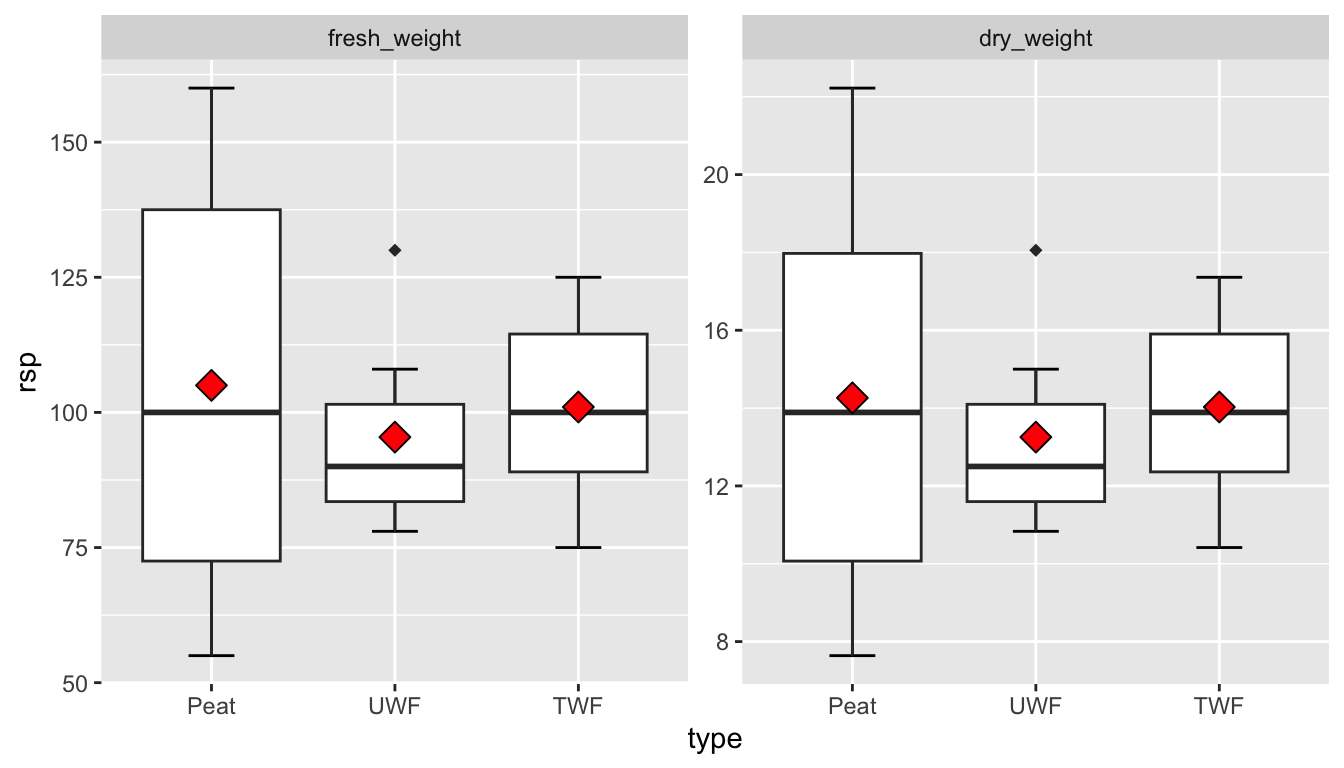
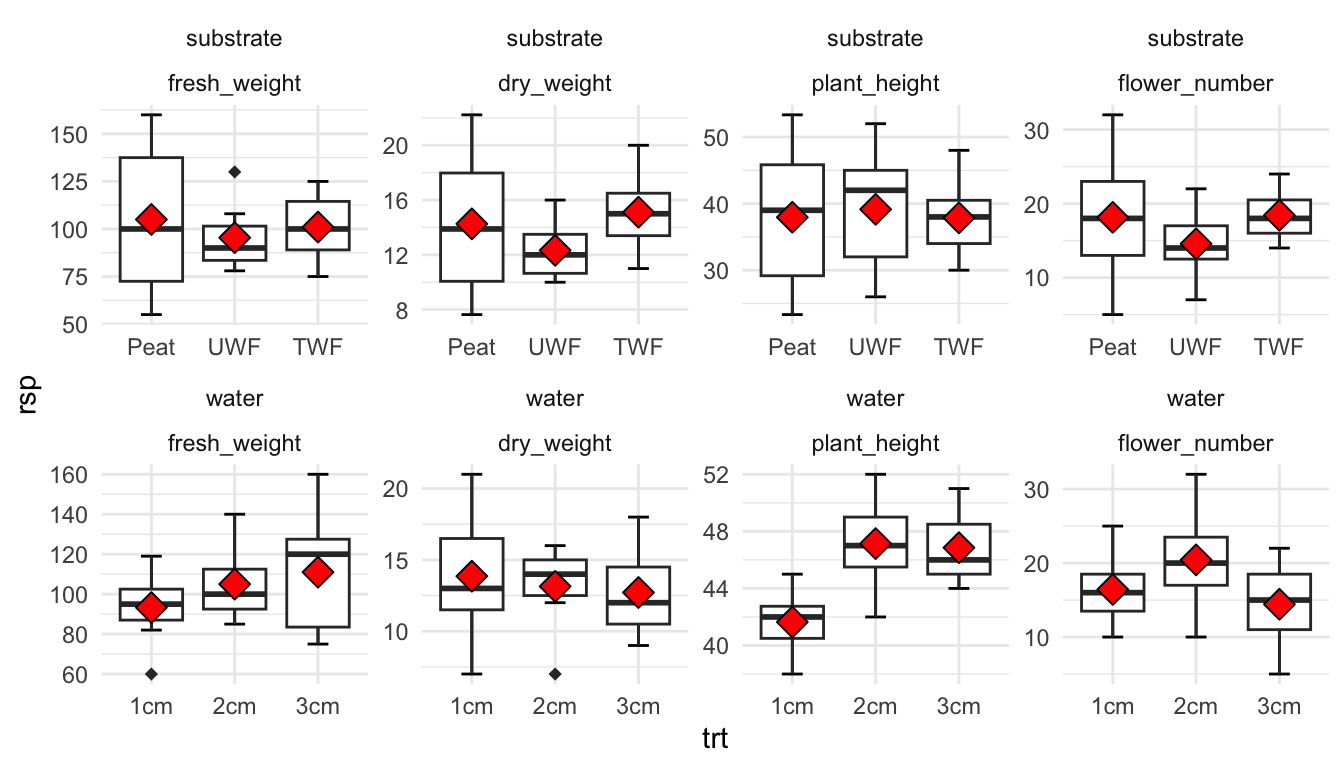
added ideas

diff --git a/docs/app-spielecke.html b/docs/app-spielecke.html
@@ -844,7 +844,7 @@ window.Quarto = {
 </header>
 
 
-<p><em>Letzte Änderung am 21. March 2024 um 12:29:05</em></p>
+<p><em>Letzte Änderung am 21. March 2024 um 20:06:57</em></p>
 <blockquote class="blockquote">
 <p><em>“Denn, um es endlich auf einmal herauszusagen, der Mensch spielt nur, wo er in voller Bedeutung des Worts Mensch ist, und er ist nur da ganz Mensch, wo er spielt.” — Friedrich Schiller</em></p>
 </blockquote>
@@ -878,25 +878,25 @@ Abbildung&nbsp;73.1— Ursprüngliche Abbildung, die nachgebaut werden soll. Zwe
 </figure>
 </div>
 <div class="cell">
-<div class="sourceCode cell-code" id="cb1"><pre class="sourceCode r code-with-copy"><code class="sourceCode r"><span id="cb1-1"><a href="#cb1-1" aria-hidden="true" tabindex="-1"></a>boxplot_mult_tbl <span class="ot">&lt;-</span> <span class="fu">read_excel</span>(<span class="st">"data/zerforschen_boxplot_mult.xlsx"</span>, <span class="at">sheet =</span> <span class="st">"substrate"</span>) <span class="sc">%&gt;%</span> </span>
-<span id="cb1-2"><a href="#cb1-2" aria-hidden="true" tabindex="-1"></a>  <span class="fu">mutate</span>(<span class="at">type =</span> <span class="fu">as_factor</span>(type))</span></code><button title="In die Zwischenablage kopieren" class="code-copy-button"><i class="bi"></i></button></pre></div>
+<div class="sourceCode cell-code" id="cb1"><pre class="sourceCode r code-with-copy"><code class="sourceCode r"><span id="cb1-1"><a href="#cb1-1" aria-hidden="true" tabindex="-1"></a>boxplot_mult_tbl <span class="ot">&lt;-</span> <span class="fu">read_excel</span>(<span class="st">"data/zerforschen_boxplot_mult.xlsx"</span>) <span class="sc">|&gt;</span> </span>
+<span id="cb1-2"><a href="#cb1-2" aria-hidden="true" tabindex="-1"></a>  <span class="fu">pivot_longer</span>(<span class="at">cols =</span> fresh_weight<span class="sc">:</span>flower_number,</span>
+<span id="cb1-3"><a href="#cb1-3" aria-hidden="true" tabindex="-1"></a>               <span class="at">values_to =</span> <span class="st">"rsp"</span>,</span>
+<span id="cb1-4"><a href="#cb1-4" aria-hidden="true" tabindex="-1"></a>               <span class="at">names_to =</span> <span class="st">"plant_measure"</span>) <span class="sc">|&gt;</span> </span>
+<span id="cb1-5"><a href="#cb1-5" aria-hidden="true" tabindex="-1"></a>    <span class="fu">mutate</span>(<span class="at">trt =</span> <span class="fu">as_factor</span>(trt),</span>
+<span id="cb1-6"><a href="#cb1-6" aria-hidden="true" tabindex="-1"></a>           <span class="at">plant_measure =</span> <span class="fu">as_factor</span>(plant_measure)) </span></code><button title="In die Zwischenablage kopieren" class="code-copy-button"><i class="bi"></i></button></pre></div>
 </div>
-<p>text</p>
+<div class="tabset-margin-container"></div><div class="panel-tabset">
+<ul class="nav nav-tabs" role="tablist"><li class="nav-item" role="presentation"><a class="nav-link active" id="tabset-1-1-tab" data-bs-toggle="tab" data-bs-target="#tabset-1-1" role="tab" aria-controls="tabset-1-1" aria-selected="true" aria-current="page">Mit <code>facet_wrap()</code></a></li><li class="nav-item" role="presentation"><a class="nav-link" id="tabset-1-2-tab" data-bs-toggle="tab" data-bs-target="#tabset-1-2" role="tab" aria-controls="tabset-1-2" aria-selected="false">Mit <code>{patchwork}</code></a></li></ul>
+<div class="tab-content">
+<div id="tabset-1-1" class="tab-pane active" role="tabpanel" aria-labelledby="tabset-1-1-tab">
 <div class="cell" data-layout-align="center">
-<div class="sourceCode cell-code" id="cb2"><pre class="sourceCode r code-with-copy"><code class="sourceCode r"><span id="cb2-1"><a href="#cb2-1" aria-hidden="true" tabindex="-1"></a>boxplot_mult_tbl <span class="ot">&lt;-</span> <span class="fu">read_excel</span>(<span class="st">"data/zerforschen_boxplot_mult.xlsx"</span>, <span class="at">sheet =</span> <span class="st">"substrate"</span>) <span class="sc">|&gt;</span> </span>
-<span id="cb2-2"><a href="#cb2-2" aria-hidden="true" tabindex="-1"></a>  <span class="fu">pivot_longer</span>(<span class="at">cols =</span> fresh_weight<span class="sc">:</span>dry_weight,</span>
-<span id="cb2-3"><a href="#cb2-3" aria-hidden="true" tabindex="-1"></a>               <span class="at">values_to =</span> <span class="st">"rsp"</span>,</span>
-<span id="cb2-4"><a href="#cb2-4" aria-hidden="true" tabindex="-1"></a>               <span class="at">names_to =</span> <span class="st">"plant_measure"</span>) <span class="sc">|&gt;</span> </span>
-<span id="cb2-5"><a href="#cb2-5" aria-hidden="true" tabindex="-1"></a>    <span class="fu">mutate</span>(<span class="at">type =</span> <span class="fu">as_factor</span>(type),</span>
-<span id="cb2-6"><a href="#cb2-6" aria-hidden="true" tabindex="-1"></a>           <span class="at">plant_measure =</span> <span class="fu">as_factor</span>(plant_measure)) </span>
-<span id="cb2-7"><a href="#cb2-7" aria-hidden="true" tabindex="-1"></a></span>
-<span id="cb2-8"><a href="#cb2-8" aria-hidden="true" tabindex="-1"></a>boxplot_mult_tbl <span class="sc">|&gt;</span> </span>
-<span id="cb2-9"><a href="#cb2-9" aria-hidden="true" tabindex="-1"></a>  <span class="fu">ggplot</span>(<span class="fu">aes</span>(type, rsp)) <span class="sc">+</span></span>
-<span id="cb2-10"><a href="#cb2-10" aria-hidden="true" tabindex="-1"></a>  <span class="fu">stat_boxplot</span>(<span class="at">geom =</span> <span class="st">"errorbar"</span>, <span class="at">width =</span> <span class="fl">0.25</span>) <span class="sc">+</span> </span>
-<span id="cb2-11"><a href="#cb2-11" aria-hidden="true" tabindex="-1"></a>  <span class="fu">geom_boxplot</span>(<span class="at">outlier.shape =</span> <span class="dv">18</span>, <span class="at">outlier.size =</span> <span class="dv">2</span>) <span class="sc">+</span></span>
-<span id="cb2-12"><a href="#cb2-12" aria-hidden="true" tabindex="-1"></a>  <span class="co">#scale_y_continuous(breaks = seq(60, 160, by = 20), limits = c(50, 160)) +</span></span>
-<span id="cb2-13"><a href="#cb2-13" aria-hidden="true" tabindex="-1"></a>  <span class="fu">stat_summary</span>(<span class="at">fun.y =</span> mean, <span class="at">geom =</span> <span class="st">"point"</span>, <span class="at">shape =</span> <span class="dv">23</span>, <span class="at">size =</span> <span class="dv">4</span>, <span class="at">fill =</span> <span class="st">"red"</span>) <span class="sc">+</span></span>
-<span id="cb2-14"><a href="#cb2-14" aria-hidden="true" tabindex="-1"></a>  <span class="fu">facet_wrap</span>(<span class="sc">~</span> plant_measure, <span class="at">nrow =</span> <span class="dv">1</span>, <span class="at">scales =</span> <span class="st">"free_y"</span>)</span></code><button title="In die Zwischenablage kopieren" class="code-copy-button"><i class="bi"></i></button></pre></div>
+<div class="sourceCode cell-code" id="cb2"><pre class="sourceCode r code-with-copy"><code class="sourceCode r"><span id="cb2-1"><a href="#cb2-1" aria-hidden="true" tabindex="-1"></a>boxplot_mult_tbl <span class="sc">|&gt;</span> </span>
+<span id="cb2-2"><a href="#cb2-2" aria-hidden="true" tabindex="-1"></a>  <span class="fu">ggplot</span>(<span class="fu">aes</span>(trt, rsp)) <span class="sc">+</span></span>
+<span id="cb2-3"><a href="#cb2-3" aria-hidden="true" tabindex="-1"></a>  <span class="fu">theme_minimal</span>() <span class="sc">+</span></span>
+<span id="cb2-4"><a href="#cb2-4" aria-hidden="true" tabindex="-1"></a>  <span class="fu">stat_boxplot</span>(<span class="at">geom =</span> <span class="st">"errorbar"</span>, <span class="at">width =</span> <span class="fl">0.25</span>) <span class="sc">+</span> </span>
+<span id="cb2-5"><a href="#cb2-5" aria-hidden="true" tabindex="-1"></a>  <span class="fu">geom_boxplot</span>(<span class="at">outlier.shape =</span> <span class="dv">18</span>, <span class="at">outlier.size =</span> <span class="dv">2</span>) <span class="sc">+</span></span>
+<span id="cb2-6"><a href="#cb2-6" aria-hidden="true" tabindex="-1"></a>  <span class="fu">stat_summary</span>(<span class="at">fun.y =</span> mean, <span class="at">geom =</span> <span class="st">"point"</span>, <span class="at">shape =</span> <span class="dv">23</span>, <span class="at">size =</span> <span class="dv">4</span>, <span class="at">fill =</span> <span class="st">"red"</span>) <span class="sc">+</span></span>
+<span id="cb2-7"><a href="#cb2-7" aria-hidden="true" tabindex="-1"></a>  <span class="fu">facet_wrap</span>(<span class="sc">~</span> type <span class="sc">*</span> plant_measure, <span class="at">nrow =</span> <span class="dv">2</span>, <span class="at">scales =</span> <span class="st">"free"</span>)</span></code><button title="In die Zwischenablage kopieren" class="code-copy-button"><i class="bi"></i></button></pre></div>
 <div class="cell-output-display">
 <div id="fig-zerforschen_boxplot_mult-1" class="quarto-figure quarto-figure-center quarto-float anchored" data-fig-align="center">
 <figure class="quarto-float quarto-float-fig figure">
@@ -904,9 +904,57 @@ Abbildung&nbsp;73.1— Ursprüngliche Abbildung, die nachgebaut werden soll. Zwe
 <a href="app-spielecke_files/figure-html/fig-zerforschen_boxplot_mult-1-1.png" class="lightbox" data-gallery="quarto-lightbox-gallery-3" data-glightbox="description: .lightbox-desc-3"><img src="app-spielecke_files/figure-html/fig-zerforschen_boxplot_mult-1-1.png" class="img-fluid quarto-figure quarto-figure-center figure-img" width="672"></a>
 </div>
 <figcaption class="quarto-float-caption-bottom quarto-float-caption quarto-float-fig" id="fig-zerforschen_boxplot_mult-1-caption-0ceaefa1-69ba-4598-a22c-09a6ac19f8ca">
-Abbildung&nbsp;73.2— Die
+Abbildung&nbsp;73.2— Nicht alle Ausreißer wurden von mir direkt nachgebaut. Das ist sehr viel Arbeit mit wenig Erkenntnisgewinn.
 </figcaption>
 </figure>
+</div>
+</div>
+</div>
+</div>
+<div id="tabset-1-2" class="tab-pane" role="tabpanel" aria-labelledby="tabset-1-2-tab">
+<p>Hier bauen wir uns erstmal ein Template für <code>ggplot()</code> und dann ändern wir nur die Werte für <code>scale_y_continuous()</code>.</p>
+<div class="cell">
+<div class="sourceCode cell-code" id="cb3"><pre class="sourceCode r code-with-copy"><code class="sourceCode r"><span id="cb3-1"><a href="#cb3-1" aria-hidden="true" tabindex="-1"></a>gg_template <span class="ot">&lt;-</span> <span class="fu">ggplot</span>() <span class="sc">+</span></span>
+<span id="cb3-2"><a href="#cb3-2" aria-hidden="true" tabindex="-1"></a>  <span class="fu">aes</span>(trt, rsp) <span class="sc">+</span></span>
+<span id="cb3-3"><a href="#cb3-3" aria-hidden="true" tabindex="-1"></a>  <span class="fu">theme_minimal</span>() <span class="sc">+</span></span>
+<span id="cb3-4"><a href="#cb3-4" aria-hidden="true" tabindex="-1"></a>  <span class="fu">stat_boxplot</span>(<span class="at">geom =</span> <span class="st">"errorbar"</span>, <span class="at">width =</span> <span class="fl">0.25</span>) <span class="sc">+</span> </span>
+<span id="cb3-5"><a href="#cb3-5" aria-hidden="true" tabindex="-1"></a>  <span class="fu">geom_boxplot</span>(<span class="at">outlier.shape =</span> <span class="dv">18</span>, <span class="at">outlier.size =</span> <span class="dv">2</span>) <span class="sc">+</span></span>
+<span id="cb3-6"><a href="#cb3-6" aria-hidden="true" tabindex="-1"></a>  <span class="fu">stat_summary</span>(<span class="at">fun.y =</span> mean, <span class="at">geom =</span> <span class="st">"point"</span>, <span class="at">shape =</span> <span class="dv">23</span>, <span class="at">size =</span> <span class="dv">4</span>, <span class="at">fill =</span> <span class="st">"red"</span>) <span class="sc">+</span></span>
+<span id="cb3-7"><a href="#cb3-7" aria-hidden="true" tabindex="-1"></a>  <span class="fu">labs</span>(<span class="at">x =</span> <span class="st">""</span>)</span></code><button title="In die Zwischenablage kopieren" class="code-copy-button"><i class="bi"></i></button></pre></div>
+</div>
+<div class="cell">
+<div class="sourceCode cell-code" id="cb4"><pre class="sourceCode r code-with-copy"><code class="sourceCode r"><span id="cb4-1"><a href="#cb4-1" aria-hidden="true" tabindex="-1"></a>p1 <span class="ot">&lt;-</span> gg_template <span class="sc">%+%</span></span>
+<span id="cb4-2"><a href="#cb4-2" aria-hidden="true" tabindex="-1"></a>  <span class="fu">filter</span>(boxplot_mult_tbl, type <span class="sc">==</span> <span class="st">"substrate"</span> <span class="sc">&amp;</span> plant_measure <span class="sc">==</span> <span class="st">"fresh_weight"</span>)</span>
+<span id="cb4-3"><a href="#cb4-3" aria-hidden="true" tabindex="-1"></a>p2 <span class="ot">&lt;-</span> gg_template <span class="sc">%+%</span></span>
+<span id="cb4-4"><a href="#cb4-4" aria-hidden="true" tabindex="-1"></a>  <span class="fu">filter</span>(boxplot_mult_tbl, type <span class="sc">==</span> <span class="st">"substrate"</span> <span class="sc">&amp;</span> plant_measure <span class="sc">==</span> <span class="st">"dry_weight"</span>)</span>
+<span id="cb4-5"><a href="#cb4-5" aria-hidden="true" tabindex="-1"></a>p3 <span class="ot">&lt;-</span> gg_template <span class="sc">%+%</span></span>
+<span id="cb4-6"><a href="#cb4-6" aria-hidden="true" tabindex="-1"></a>  <span class="fu">filter</span>(boxplot_mult_tbl, type <span class="sc">==</span> <span class="st">"substrate"</span> <span class="sc">&amp;</span> plant_measure <span class="sc">==</span> <span class="st">"plant_height"</span>)</span>
+<span id="cb4-7"><a href="#cb4-7" aria-hidden="true" tabindex="-1"></a>p4 <span class="ot">&lt;-</span> gg_template <span class="sc">%+%</span></span>
+<span id="cb4-8"><a href="#cb4-8" aria-hidden="true" tabindex="-1"></a>  <span class="fu">filter</span>(boxplot_mult_tbl, type <span class="sc">==</span> <span class="st">"substrate"</span> <span class="sc">&amp;</span> plant_measure <span class="sc">==</span> <span class="st">"flower_number"</span>)</span>
+<span id="cb4-9"><a href="#cb4-9" aria-hidden="true" tabindex="-1"></a>p5 <span class="ot">&lt;-</span> gg_template <span class="sc">%+%</span></span>
+<span id="cb4-10"><a href="#cb4-10" aria-hidden="true" tabindex="-1"></a>  <span class="fu">filter</span>(boxplot_mult_tbl, type <span class="sc">==</span> <span class="st">"water"</span> <span class="sc">&amp;</span> plant_measure <span class="sc">==</span> <span class="st">"fresh_weight"</span>)</span>
+<span id="cb4-11"><a href="#cb4-11" aria-hidden="true" tabindex="-1"></a>p6 <span class="ot">&lt;-</span> gg_template <span class="sc">%+%</span></span>
+<span id="cb4-12"><a href="#cb4-12" aria-hidden="true" tabindex="-1"></a>  <span class="fu">filter</span>(boxplot_mult_tbl, type <span class="sc">==</span> <span class="st">"water"</span> <span class="sc">&amp;</span> plant_measure <span class="sc">==</span> <span class="st">"fresh_weight"</span>)</span>
+<span id="cb4-13"><a href="#cb4-13" aria-hidden="true" tabindex="-1"></a>p7 <span class="ot">&lt;-</span> gg_template <span class="sc">%+%</span></span>
+<span id="cb4-14"><a href="#cb4-14" aria-hidden="true" tabindex="-1"></a>  <span class="fu">filter</span>(boxplot_mult_tbl, type <span class="sc">==</span> <span class="st">"water"</span> <span class="sc">&amp;</span> plant_measure <span class="sc">==</span> <span class="st">"fresh_weight"</span>)</span>
+<span id="cb4-15"><a href="#cb4-15" aria-hidden="true" tabindex="-1"></a>p8 <span class="ot">&lt;-</span> gg_template <span class="sc">%+%</span></span>
+<span id="cb4-16"><a href="#cb4-16" aria-hidden="true" tabindex="-1"></a>  <span class="fu">filter</span>(boxplot_mult_tbl, type <span class="sc">==</span> <span class="st">"water"</span> <span class="sc">&amp;</span> plant_measure <span class="sc">==</span> <span class="st">"fresh_weight"</span>)</span></code><button title="In die Zwischenablage kopieren" class="code-copy-button"><i class="bi"></i></button></pre></div>
+</div>
+<div class="cell">
+<div class="sourceCode cell-code" id="cb5"><pre class="sourceCode r code-with-copy"><code class="sourceCode r"><span id="cb5-1"><a href="#cb5-1" aria-hidden="true" tabindex="-1"></a>patch <span class="ot">&lt;-</span> (p1 <span class="sc">+</span> p2 <span class="sc">+</span> p3 <span class="sc">+</span> p4) <span class="sc">|</span></span>
+<span id="cb5-2"><a href="#cb5-2" aria-hidden="true" tabindex="-1"></a>  (p5 <span class="sc">+</span> p6 <span class="sc">+</span> p7 <span class="sc">+</span> p8) </span>
+<span id="cb5-3"><a href="#cb5-3" aria-hidden="true" tabindex="-1"></a>patch <span class="sc">+</span> <span class="fu">plot_annotation</span>(<span class="at">tag_levels =</span> <span class="st">'A'</span>,</span>
+<span id="cb5-4"><a href="#cb5-4" aria-hidden="true" tabindex="-1"></a>                        <span class="at">title =</span> <span class="st">'The surprising truth about mtcars'</span>,</span>
+<span id="cb5-5"><a href="#cb5-5" aria-hidden="true" tabindex="-1"></a>                        <span class="at">subtitle =</span> <span class="st">'These 3 plots will reveal yet-untold secrets about our beloved data-set'</span>,</span>
+<span id="cb5-6"><a href="#cb5-6" aria-hidden="true" tabindex="-1"></a>                        <span class="at">caption =</span> <span class="st">'Disclaimer: None of these plots are insightful'</span>)</span></code><button title="In die Zwischenablage kopieren" class="code-copy-button"><i class="bi"></i></button></pre></div>
+<div class="cell-output-display">
+<div>
+<figure class="figure">
+<p><a href="app-spielecke_files/figure-html/unnamed-chunk-6-1.png" class="lightbox" data-gallery="quarto-lightbox-gallery-4"><img src="app-spielecke_files/figure-html/unnamed-chunk-6-1.png" class="img-fluid figure-img" width="672"></a></p>
+</figure>
+</div>
+</div>
+</div>
 </div>
 </div>
 </div>
@@ -960,7 +1008,7 @@ Abbildung&nbsp;73.2— Die
 <div id="fig-eda-preface-r-01" class="quarto-figure quarto-figure-center quarto-float anchored" data-fig-align="center">
 <figure class="quarto-float quarto-float-fig figure">
 <div aria-describedby="fig-eda-preface-r-01-caption-0ceaefa1-69ba-4598-a22c-09a6ac19f8ca">
-<a href="app-spielecke_files/figure-html/fig-eda-preface-r-01-1.png" class="lightbox" data-gallery="quarto-lightbox-gallery-4" data-glightbox="description: .lightbox-desc-4"><img src="app-spielecke_files/figure-html/fig-eda-preface-r-01-1.png" class="img-fluid quarto-figure quarto-figure-center figure-img" width="672"></a>
+<a href="app-spielecke_files/figure-html/fig-eda-preface-r-01-1.png" class="lightbox" data-gallery="quarto-lightbox-gallery-5" data-glightbox="description: .lightbox-desc-5"><img src="app-spielecke_files/figure-html/fig-eda-preface-r-01-1.png" class="img-fluid quarto-figure quarto-figure-center figure-img" width="672"></a>
 </div>
 <figcaption class="quarto-float-caption-bottom quarto-float-caption quarto-float-fig" id="fig-eda-preface-r-01-caption-0ceaefa1-69ba-4598-a22c-09a6ac19f8ca">
 Abbildung&nbsp;73.3— Im Jahr 1995 waren 37 % der Informatiker Frauen. Heute sind es nur noch 24 %. Der Prozentsatz wird weiter sinken, wenn wir nichts tun. Wir wissen, dass der größte Rückgang von Mädchen in der Informatik im Alter zwischen 13 und 17 Jahren stattfindet. Quelle: <a href="https://girlswhocode.com/about-us">Girls who code</a>
@@ -1012,10 +1060,10 @@ Abbildung&nbsp;73.3— Im Jahr 1995 waren 37 % der Informatiker Frauen. Heute si
 <p>Mit dem <a href="https://cran.r-hub.io/web/packages/FAOSTAT/">R Paket <code>{FAOSTAT}</code></a> und der Vignette <a href="https://cran.r-hub.io/web/packages/FAOSTAT/vignettes/FAOSTAT.pdf">FAOSTAT: Download Data from the FAOSTAT Database</a></p>
 <p>Mit dem <a href="https://cran.r-project.org/web/packages/owidR/index.html">R Paket <code>{owidR}</code></a> haben wir auch eine Möglichkeit direkt auf die Datenbank von <a href="https://ourworldindata.org/">Our World in Data</a> zuzugreifen.</p>
 <div class="cell">
-<div class="sourceCode cell-code" id="cb3"><pre class="sourceCode r code-with-copy"><code class="sourceCode r"><span id="cb3-1"><a href="#cb3-1" aria-hidden="true" tabindex="-1"></a><span class="fu">library</span>(owidR)</span>
-<span id="cb3-2"><a href="#cb3-2" aria-hidden="true" tabindex="-1"></a>foo <span class="ot">&lt;-</span> <span class="fu">owid_search</span>(<span class="st">"annual"</span>) </span>
-<span id="cb3-3"><a href="#cb3-3" aria-hidden="true" tabindex="-1"></a><span class="fu">owid</span>(<span class="st">"annual-co2-emissions-by-region"</span>)</span>
-<span id="cb3-4"><a href="#cb3-4" aria-hidden="true" tabindex="-1"></a><span class="fu">owid</span>(foo[<span class="dv">3</span>])</span></code><button title="In die Zwischenablage kopieren" class="code-copy-button"><i class="bi"></i></button></pre></div>
+<div class="sourceCode cell-code" id="cb6"><pre class="sourceCode r code-with-copy"><code class="sourceCode r"><span id="cb6-1"><a href="#cb6-1" aria-hidden="true" tabindex="-1"></a><span class="fu">library</span>(owidR)</span>
+<span id="cb6-2"><a href="#cb6-2" aria-hidden="true" tabindex="-1"></a>foo <span class="ot">&lt;-</span> <span class="fu">owid_search</span>(<span class="st">"annual"</span>) </span>
+<span id="cb6-3"><a href="#cb6-3" aria-hidden="true" tabindex="-1"></a><span class="fu">owid</span>(<span class="st">"annual-co2-emissions-by-region"</span>)</span>
+<span id="cb6-4"><a href="#cb6-4" aria-hidden="true" tabindex="-1"></a><span class="fu">owid</span>(foo[<span class="dv">3</span>])</span></code><button title="In die Zwischenablage kopieren" class="code-copy-button"><i class="bi"></i></button></pre></div>
 </div>
 <p>Eine wunderbare Sammlung von Datensätzen aus dem Bereich der Agarwissenschaften liefert das R Paket <code>{agridat}</code>. Über die Hilfeseite <a href="https://cran.r-project.org/web/packages/agridat/index.html">agridat: Agricultural Datasets</a> findest du dann einmal einen gesamten Überblick und auch die Informationen über einige ausgewählte Datensätze aus Dutzenden von Datensätzen. Alle Datensätze der wichtigen Bücher zu dem experimentellen Designs sind dort eigentlich enthalten und einmal kuratiert.</p>
 <p>Hier noch der Link zu <a href="https://kwstat.github.io/agridat/reference/index.html">agridat - Datensätze mit Abbildungen in <code>{desplot}</code></a>. Du musst dann auf die jeweiligen Datensätze in der Liste klicken und dann kommst du zu dem Datensatz mit mehr Details sowie meistens auch einer Abbildung in <code>desplot</code>.</p>
@@ -1032,22 +1080,22 @@ Abbildung&nbsp;73.3— Im Jahr 1995 waren 37 % der Informatiker Frauen. Heute si
 <p>Wenn du mehr über <em>latent class analysis</em> erfahren möchtest, dann kann ich dir nur das <a href="https://www.john-uebersax.com/stat/faq.htm">LCA Frequently Asked Questions (FAQ)</a> empfehlen. Das FAQ ist sehr umfangreich und beschäftigt sich mit allen wichtigen Punkten. Wir wollen uns ja mit dem R Paket <code>poLCA</code> beschäftigen. Hier gibt es zwei Tutorien. Einmal gibt es das Tutorium <a href="https://statistics.ohlsen-web.de/latent-class-analysis-polca/">Example for a latent class analysis with the poLCA-package in R</a> und das Tutroium <a href="https://rpubs.com/eogawac/poLCA">Latent Class Analysis</a>. Und natürlich die Litertur von <span class="citation" data-cites="linzer2011polca">Linzer und Lewis (<a href="#ref-linzer2011polca" role="doc-biblioref">2011</a>)</span> mit der entsprechenden Veröffentlichung <a href="https://www.sscnet.ucla.edu/polisci/faculty/lewis/pdf/poLCA-JSS-final.pdf">poLCA: An R Package for Polytomous Variable Latent Class Analysis</a></p>
 <p>Grundsätzlich basiert die <em>latent class analysis</em> nicht auf Distanzen sondern versucht über eine Modellierung der Klassenzugehörigkeitswahrscheinlichkeit getrennte Gruppen zu bilden. Wir wollen also <span class="math inline">\(k\)</span> Klassen haben und im idealen Fall können wir durch unsere Variablen in dem Datensatz jeweils mit einer 100% Wahrscheinlichkeit einer der drei Klassen zuordnen. Was dann diese <span class="math inline">\(k\)</span> Klassen aussagen, müssen wir dann selber anhand der zugewiesenen Variablen aus unseren Daten interpretieren.</p>
 <div class="cell">
-<div class="sourceCode cell-code" id="cb4"><pre class="sourceCode r code-with-copy"><code class="sourceCode r"><span id="cb4-1"><a href="#cb4-1" aria-hidden="true" tabindex="-1"></a>pacman<span class="sc">::</span><span class="fu">p_load</span>(tidyverse, magrittr, janitor, conflicted)</span>
-<span id="cb4-2"><a href="#cb4-2" aria-hidden="true" tabindex="-1"></a></span>
-<span id="cb4-3"><a href="#cb4-3" aria-hidden="true" tabindex="-1"></a>animals_tbl <span class="ot">&lt;-</span> <span class="fu">read_excel</span>(<span class="st">"data/cluster_animal.xlsx"</span>, <span class="at">sheet =</span> <span class="dv">1</span>) <span class="sc">%&gt;%</span> </span>
-<span id="cb4-4"><a href="#cb4-4" aria-hidden="true" tabindex="-1"></a>  <span class="fu">clean_names</span>() </span></code><button title="In die Zwischenablage kopieren" class="code-copy-button"><i class="bi"></i></button></pre></div>
+<div class="sourceCode cell-code" id="cb7"><pre class="sourceCode r code-with-copy"><code class="sourceCode r"><span id="cb7-1"><a href="#cb7-1" aria-hidden="true" tabindex="-1"></a>pacman<span class="sc">::</span><span class="fu">p_load</span>(tidyverse, magrittr, janitor, conflicted)</span>
+<span id="cb7-2"><a href="#cb7-2" aria-hidden="true" tabindex="-1"></a></span>
+<span id="cb7-3"><a href="#cb7-3" aria-hidden="true" tabindex="-1"></a>animals_tbl <span class="ot">&lt;-</span> <span class="fu">read_excel</span>(<span class="st">"data/cluster_animal.xlsx"</span>, <span class="at">sheet =</span> <span class="dv">1</span>) <span class="sc">%&gt;%</span> </span>
+<span id="cb7-4"><a href="#cb7-4" aria-hidden="true" tabindex="-1"></a>  <span class="fu">clean_names</span>() </span></code><button title="In die Zwischenablage kopieren" class="code-copy-button"><i class="bi"></i></button></pre></div>
 </div>
 <div class="cell">
-<div class="sourceCode cell-code" id="cb5"><pre class="sourceCode r code-with-copy"><code class="sourceCode r"><span id="cb5-1"><a href="#cb5-1" aria-hidden="true" tabindex="-1"></a>pacman<span class="sc">::</span><span class="fu">p_load</span>(poLCA)</span>
-<span id="cb5-2"><a href="#cb5-2" aria-hidden="true" tabindex="-1"></a></span>
-<span id="cb5-3"><a href="#cb5-3" aria-hidden="true" tabindex="-1"></a><span class="fu">poLCA</span>(<span class="fu">cbind</span>(warm_blooded, fly, vertebrate, threatened, live_in_groups) <span class="sc">~</span> <span class="dv">1</span>,</span>
-<span id="cb5-4"><a href="#cb5-4" aria-hidden="true" tabindex="-1"></a>      <span class="at">nclass =</span> <span class="dv">3</span>,</span>
-<span id="cb5-5"><a href="#cb5-5" aria-hidden="true" tabindex="-1"></a>      <span class="at">data =</span> animals_tbl,</span>
-<span id="cb5-6"><a href="#cb5-6" aria-hidden="true" tabindex="-1"></a>      <span class="at">nrep =</span> <span class="dv">1</span>,</span>
-<span id="cb5-7"><a href="#cb5-7" aria-hidden="true" tabindex="-1"></a>      <span class="at">na.rm =</span> <span class="cn">FALSE</span>,</span>
-<span id="cb5-8"><a href="#cb5-8" aria-hidden="true" tabindex="-1"></a>      <span class="at">graphs =</span> <span class="cn">TRUE</span>,</span>
-<span id="cb5-9"><a href="#cb5-9" aria-hidden="true" tabindex="-1"></a>      <span class="at">maxiter =</span> <span class="dv">100000</span></span>
-<span id="cb5-10"><a href="#cb5-10" aria-hidden="true" tabindex="-1"></a>)</span></code><button title="In die Zwischenablage kopieren" class="code-copy-button"><i class="bi"></i></button></pre></div>
+<div class="sourceCode cell-code" id="cb8"><pre class="sourceCode r code-with-copy"><code class="sourceCode r"><span id="cb8-1"><a href="#cb8-1" aria-hidden="true" tabindex="-1"></a>pacman<span class="sc">::</span><span class="fu">p_load</span>(poLCA)</span>
+<span id="cb8-2"><a href="#cb8-2" aria-hidden="true" tabindex="-1"></a></span>
+<span id="cb8-3"><a href="#cb8-3" aria-hidden="true" tabindex="-1"></a><span class="fu">poLCA</span>(<span class="fu">cbind</span>(warm_blooded, fly, vertebrate, threatened, live_in_groups) <span class="sc">~</span> <span class="dv">1</span>,</span>
+<span id="cb8-4"><a href="#cb8-4" aria-hidden="true" tabindex="-1"></a>      <span class="at">nclass =</span> <span class="dv">3</span>,</span>
+<span id="cb8-5"><a href="#cb8-5" aria-hidden="true" tabindex="-1"></a>      <span class="at">data =</span> animals_tbl,</span>
+<span id="cb8-6"><a href="#cb8-6" aria-hidden="true" tabindex="-1"></a>      <span class="at">nrep =</span> <span class="dv">1</span>,</span>
+<span id="cb8-7"><a href="#cb8-7" aria-hidden="true" tabindex="-1"></a>      <span class="at">na.rm =</span> <span class="cn">FALSE</span>,</span>
+<span id="cb8-8"><a href="#cb8-8" aria-hidden="true" tabindex="-1"></a>      <span class="at">graphs =</span> <span class="cn">TRUE</span>,</span>
+<span id="cb8-9"><a href="#cb8-9" aria-hidden="true" tabindex="-1"></a>      <span class="at">maxiter =</span> <span class="dv">100000</span></span>
+<span id="cb8-10"><a href="#cb8-10" aria-hidden="true" tabindex="-1"></a>)</span></code><button title="In die Zwischenablage kopieren" class="code-copy-button"><i class="bi"></i></button></pre></div>
 </div>
 <p>Hier hängen wir dann an der Interpretation. Da müssen wir nochmal tiefer schauen.</p>
 </section>
@@ -1095,8 +1143,8 @@ Abbildung&nbsp;73.3— Im Jahr 1995 waren 37 % der Informatiker Frauen. Heute si
 
 <div class="hidden" aria-hidden="true">
 <span class="glightbox-desc lightbox-desc-2">Abbildung&nbsp;73.1— Ursprüngliche Abbildung, die nachgebaut werden soll. Zwei lineare Regressionen mit den jeweiligen Regressionsgleichungen.</span>
-<span class="glightbox-desc lightbox-desc-3">Abbildung&nbsp;73.2— Die</span>
-<span class="glightbox-desc lightbox-desc-4">Abbildung&nbsp;73.3— Im Jahr 1995 waren 37 % der Informatiker Frauen. Heute sind es nur noch 24 %. Der Prozentsatz wird weiter sinken, wenn wir nichts tun. Wir wissen, dass der größte Rückgang von Mädchen in der Informatik im Alter zwischen 13 und 17 Jahren stattfindet. Quelle: <a href="https://girlswhocode.com/about-us">Girls who code</a></span>
+<span class="glightbox-desc lightbox-desc-3">Abbildung&nbsp;73.2— Nicht alle Ausreißer wurden von mir direkt nachgebaut. Das ist sehr viel Arbeit mit wenig Erkenntnisgewinn.</span>
+<span class="glightbox-desc lightbox-desc-5">Abbildung&nbsp;73.3— Im Jahr 1995 waren 37 % der Informatiker Frauen. Heute sind es nur noch 24 %. Der Prozentsatz wird weiter sinken, wenn wir nichts tun. Wir wissen, dass der größte Rückgang von Mädchen in der Informatik im Alter zwischen 13 und 17 Jahren stattfindet. Quelle: <a href="https://girlswhocode.com/about-us">Girls who code</a></span>
 </div>
 <div id="refs" class="references csl-bib-body hanging-indent" role="list">
 <div id="ref-hariri2019uncertainty" class="csl-entry" role="listitem">
@@ -1708,7 +1756,7 @@ window.document.addEventListener("DOMContentLoaded", function (event) {
 </div>
   </div>
 </footer>
-<script>var lightboxQuarto = GLightbox({"loop":false,"selector":".lightbox","openEffect":"zoom","descPosition":"bottom","closeEffect":"zoom"});
+<script>var lightboxQuarto = GLightbox({"selector":".lightbox","closeEffect":"zoom","descPosition":"bottom","openEffect":"zoom","loop":false});
 window.onload = () => {
   lightboxQuarto.on('slide_before_load', (data) => {
     const { slideIndex, slideNode, slideConfig, player, trigger } = data;

diff --git a/docs/stat-tests-basic.html b/docs/stat-tests-basic.html
@@ -835,7 +835,7 @@ window.Quarto = {
 </header>
 
 
-<p><em>Letzte Änderung am 19. March 2024 um 20:03:36</em></p>
+<p><em>Letzte Änderung am 21. March 2024 um 17:48:27</em></p>
 <blockquote class="blockquote">
 <p><em>“Wir können das Universum nicht erklären, sondern nur beschreiben; und wir wissen nicht, ob unsere Theorien wahr sind, wir wissen nur, dass sie nicht falsch sind.” — Harald Lesch</em></p>
 </blockquote>
@@ -891,7 +891,7 @@ Zerforschen: Veröffentlichung zu den Sprungweiten der Hunde- und Katzenflöhe
 </div>
 <div id="callout-2" class="callout-2-contents callout-collapse collapse">
 <div class="callout-body-container callout-body">
-<p>Die ursprüngliche Idee zu den Sprungweiten der Hunde- und Katzenflöhe stammt von <span class="citation" data-cites="cadiergues2000comparison">Cadiergues u.&nbsp;a. (<a href="#ref-cadiergues2000comparison" role="doc-biblioref">2000</a>)</span> aus der entsprechenden Veröffentlichung <a href="https://www.sciencedirect.com/science/article/pii/S0304401700002740">A comparison of jump performances of the dog flea, Ctenocephalides canis (Curtis, 1826) and the cat flea, Ctenocephalides felis felis (Bouché, 1835)</a>. In der folgenden <a href="app-spielecke.html#fig-zerforschen-fleas" class="quarto-xref">Abbildung&nbsp;<span>73.5</span></a> siehst du einmal die Zusammenfassung (eng. <em>abstract</em>) aus der Arbeit. Wir wollen uns hier einmal auf die berichteten Sprungweiten der Hunde- und Katzenflöhe konzentrieren.</p>
+<p>Die ursprüngliche Idee zu den Sprungweiten der Hunde- und Katzenflöhe stammt von <span class="citation" data-cites="cadiergues2000comparison">Cadiergues u.&nbsp;a. (<a href="#ref-cadiergues2000comparison" role="doc-biblioref">2000</a>)</span> aus der entsprechenden Veröffentlichung <a href="https://www.sciencedirect.com/science/article/pii/S0304401700002740">A comparison of jump performances of the dog flea, Ctenocephalides canis (Curtis, 1826) and the cat flea, Ctenocephalides felis felis (Bouché, 1835)</a>. In der folgenden <a href="#fig-zerforschen-fleas" class="quarto-xref">Abbildung&nbsp;<span>19.1</span></a> siehst du einmal die Zusammenfassung (eng. <em>abstract</em>) aus der Arbeit. Wir wollen uns hier einmal auf die berichteten Sprungweiten der Hunde- und Katzenflöhe konzentrieren.</p>
 <div id="fig-zerforschen-fleas" class="quarto-figure quarto-figure-center quarto-float anchored" data-fig-align="center">
 <figure class="quarto-float quarto-float-fig figure">
 <div aria-describedby="fig-zerforschen-fleas-caption-0ceaefa1-69ba-4598-a22c-09a6ac19f8ca">
@@ -904,7 +904,7 @@ Abbildung&nbsp;19.1— Auszug aus dem Zusammenfassung (eng. <em>abstract</em>) a
 </div>
 <p>Wir können jetzt die Mittelwerte der Sprungweiten der Hunde- und Katzenflöhe einmal nehmen und diese Werte dann in die Formel des t-Test setzen. Wir haben ja dafür fast alles was wir brauchen. Die Standardabweichung ist ja in beiden Gruppen der Hunde- und Katzenflöhe gleich. Das einzige was ich hier noch berichten muss ist die Fallzahl <span class="math inline">\(n_g\)</span> der beiden Gruppen mit 450 Flöhen. Dann können wir auch schon die Teststatistik <span class="math inline">\(T_{calc}\)</span> mit den Werten aus der Zusammenfassung berechnen.</p>
 <p><span class="math display">\[
-T_{calc} = \cfrac{30.4 - 19.9}{9.1 \cdot \sqrt{2/450}} = \cfrac{10.5}{0.61} = 17.21
+T_{calc} = \cfrac{30.4cm - 19.9cm}{9.1cm \cdot \sqrt{2/450}} = \cfrac{10.5cm}{0.61cm} = 17.21
 \]</span></p>
 <p>Dann brauchen wir noch die Freiheitsgrade der t-Verteilung um uns den <span class="math inline">\(p\)</span>-Wert berechnen zu können. Wir nutzen dafür die folgende Formel.</p>
 <p><span class="math display">\[
@@ -1112,7 +1112,7 @@ Tabelle&nbsp;19.2— Beispiel für die Berechnung von einem Mittelwertseffekt an
 </div>
 <p>Nun berechnen wir die Mittelwerte und die Standardabweichungen aus der obigen Datentabelle für die Sprungweiten getrennt für die Hunde- und Katzenflöhe. Die Werte setzen wir dann in die Formel ein und berechnen die Teststatistik <span class="math inline">\(T_{calc}\)</span>.</p>
 <p><span class="math display">\[
-T_{calc}=\cfrac{9.18 - 7.78}{\cfrac{(0.61 + 0.53)}{2} \cdot \sqrt{2/4}} = 3.47
+T_{calc}=\cfrac{9.18cm - 7.78cm}{\cfrac{(0.61cm + 0.53cm)}{2} \cdot \sqrt{2/4}} = 3.47
 \]</span></p>
 <p>mit</p>
 <ul>
@@ -2150,7 +2150,7 @@ window.document.addEventListener("DOMContentLoaded", function (event) {
 </div>
   </div>
 </footer>
-<script>var lightboxQuarto = GLightbox({"openEffect":"zoom","selector":".lightbox","descPosition":"bottom","closeEffect":"zoom","loop":false});
+<script>var lightboxQuarto = GLightbox({"openEffect":"zoom","selector":".lightbox","closeEffect":"zoom","loop":false,"descPosition":"bottom"});
 window.onload = () => {
   lightboxQuarto.on('slide_before_load', (data) => {
     const { slideIndex, slideNode, slideConfig, player, trigger } = data;
